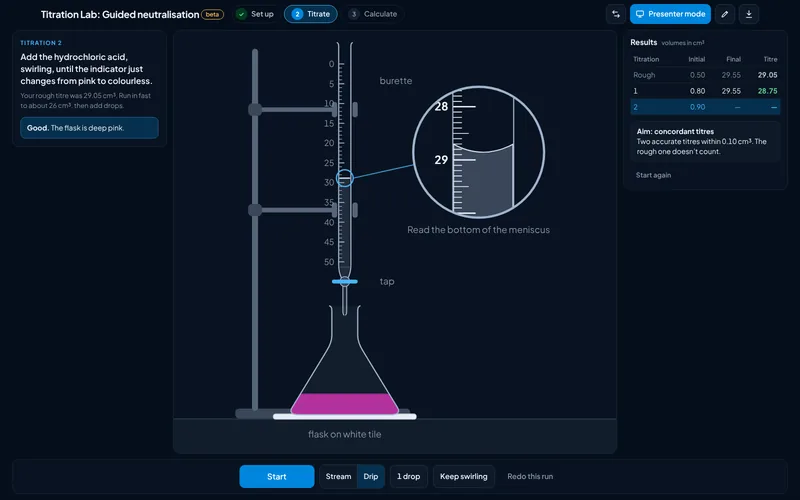
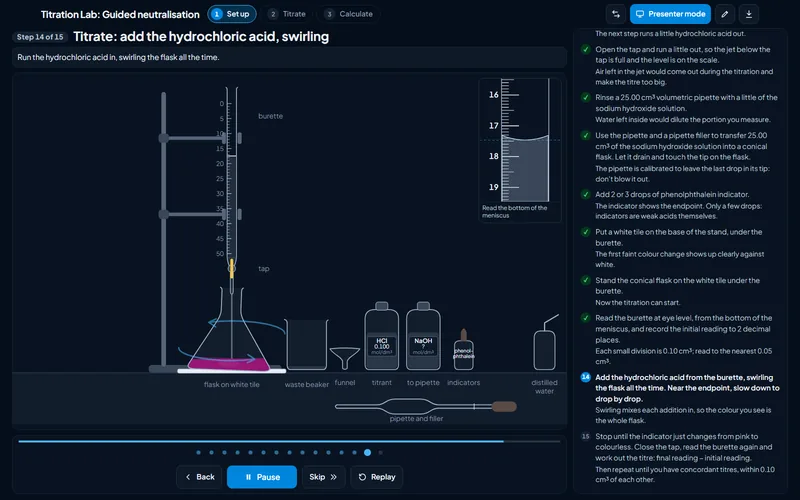
Homepage: new Titration Lab screenshot; Millionaire and Retrieval lead the games
Titration Lab's tile shows Watch mid-titration (dark theme, 1600 x 1000,
site bar cropped), thumbnail rebuilt with make-thumbs.py. The games shelf
now opens with Who Wants to Be a Science Millionaire?, then the Science
Retrieval Presenter. The Workington Academy logo is gone from the
Retrieval Presenter's header.

diff --git a/games/science/retrieval-quiz.html b/games/science/retrieval-quiz.html
@@ -67,7 +67,6 @@ html,body{height:100%;font-family:var(--body);color:var(--text);
 #wa-header::after{content:"";position:absolute;inset:0;pointer-events:none;
   background:repeating-linear-gradient(0deg,rgba(255,255,255,.07) 0 2px,transparent 2px 4px)}
 #wa-header>*{position:relative;z-index:1}
-#wa-logo{height:54px;width:auto;flex-shrink:0;display:block;border-radius:6px;border:3px solid var(--ink);background:#fff}
 #wa-title-block{flex:1;min-width:0}
 #wa-title{font-family:var(--display);font-size:clamp(14px,1.55vw,17px);font-weight:400;line-height:1.15;letter-spacing:.3px;
   color:var(--lime);text-shadow:2px 2px 0 var(--ink),0 0 18px rgba(198,255,0,.45)}
@@ -298,7 +297,6 @@ td.col-del{width:30px;text-align:center}
   #wa-stage{padding:22px 18px 26px;box-shadow:6px 6px 0 var(--mode),6px 6px 0 4px var(--ink)}
   #wa-q-text{font-size:30px!important}
   #wa-footer{flex-wrap:wrap;gap:8px}
-  #wa-logo{height:42px}
   #wa-timer-bar{background-size:320px 100%}   /* refit the drain gradient to a phone-width bar */
 }
 
@@ -318,7 +316,6 @@ td.col-del{width:30px;text-align:center}
 <div id="wa-outer">
 
 <div id="wa-header">
[1 lines of base64/hex data omitted]
   <div id="wa-title-block"><div id="wa-title">GCSE Science Retrieval Presenter</div><div class="subtitle">Biology · Chemistry · Physics — AQA GCSE</div></div>
   <div id="mode-bar"><button class="mode-btn active" data-mode="presenter" onclick="setMode('presenter')">&#127941; Presenter</button><button class="mode-btn" data-mode="editor" onclick="setMode('editor')">&#9998; Edit Questions</button></div>
   <label id="wa-joke-toggle" title="Easter-egg jokes"><input type="checkbox" id="chk-joke" checked><span>🥚</span></label>

diff --git a/assets/sst/tools.js b/assets/sst/tools.js
@@ -191,6 +191,13 @@ window.SST_TOOLS = [
     image: "mass-weight.png",
     keywords: "mass weight difference w = m x g w=mg weight equals mass times gravitational field strength g n/kg newtons per kilogram 9.8 10 n/kg kilograms kg newtons n force of gravity gravity gravitational pull solar system planets sun mercury venus earth moon mars jupiter saturn uranus neptune pluto dwarf planet surface gravity weigh on other planets weightless weightlessness astronaut space newtonmeter newton meter spring balance forcemeter bathroom scales jump height moon jump dropping hammer feather apollo calculator worked examples rearrange quiz presenter mode whiteboard ks3 physics forces year 7 year 8 year 9" },
 
+  { title: "Who Wants to Be a Science Millionaire? (beta)", url: "games/science/millionaire/",
+    topic: "games",
+    blurb: "Climb a fifteen-question prize ladder with 50:50, Ask the Audience and Phone a Friend, using only the topics your class has been taught.",
+    kind: "Revision Game", levels: ["GCSE"], tags: ["Biology", "Chemistry", "Physics", "Revision Game", "Interactive"],
+    image: "science-millionaire.png",
+    keywords: "who wants to be a millionaire science millionaire quiz game show multiple choice lifelines 50:50 fifty fifty ask the audience phone a friend safety net prize ladder starter plenary revision whiteboard class aqa 8461 8462 8463 8464 trilogy combined science separate foundation higher edexcel pearson 1bi0 1ch0 1ph0 1sc0 cell biology organisation infection bioenergetics homeostasis inheritance ecology atomic structure bonding quantitative chemical changes energy rates organic analysis atmosphere resources electricity particle model radioactivity forces waves magnetism space physics" },
+
   { title: "Science Retrieval Presenter", url: "games/science/retrieval-quiz.html",
     topic: "games",
     blurb: "Timed recall across biology, chemistry and physics, mixing in earlier topics and required practicals.",
@@ -231,12 +238,5 @@ window.SST_TOOLS = [
     blurb: "Bid, dare and bank the winnings in a list-naming game show for the whole class.",
     kind: "Revision Game", levels: ["KS3", "GCSE"], tags: ["Biology", "Chemistry", "Physics", "Revision Game"],
     image: "who-dares-wins.png",
-    keywords: "who dares wins bidding list naming game show bank risk" },
-
-  { title: "Who Wants to Be a Science Millionaire? (beta)", url: "games/science/millionaire/",
-    topic: "games",
-    blurb: "Climb a fifteen-question prize ladder with 50:50, Ask the Audience and Phone a Friend, using only the topics your class has been taught.",
-    kind: "Revision Game", levels: ["GCSE"], tags: ["Biology", "Chemistry", "Physics", "Revision Game", "Interactive"],
-    image: "science-millionaire.png",
-    keywords: "who wants to be a millionaire science millionaire quiz game show multiple choice lifelines 50:50 fifty fifty ask the audience phone a friend safety net prize ladder starter plenary revision whiteboard class aqa 8461 8462 8463 8464 trilogy combined science separate foundation higher edexcel pearson 1bi0 1ch0 1ph0 1sc0 cell biology organisation infection bioenergetics homeostasis inheritance ecology atomic structure bonding quantitative chemical changes energy rates organic analysis atmosphere resources electricity particle model radioactivity forces waves magnetism space physics" }
+    keywords: "who dares wins bidding list naming game show bank risk" }
 ];

diff --git a/games/science/retrieval-sst.css b/games/science/retrieval-sst.css
@@ -43,7 +43,6 @@ html, body { background-color: var(--sst-bg); background-image: none; }
   background: var(--sst-panel); border: 1px solid var(--sst-line); border-radius: 14px; min-height: 0;
 }
 #wa-header::after { display: none; }
-#wa-logo { border: 1px solid var(--sst-line); border-radius: 8px; }
 #wa-title { font-family: var(--sst-font); font-weight: 800; font-size: clamp(16px, 1.8vw, 20px); letter-spacing: -0.01em; color: var(--sst-text); text-shadow: none; }
 .subtitle { color: var(--sst-text-muted); opacity: 1; }
 #wa-joke-toggle, #wa-sound-toggle {
